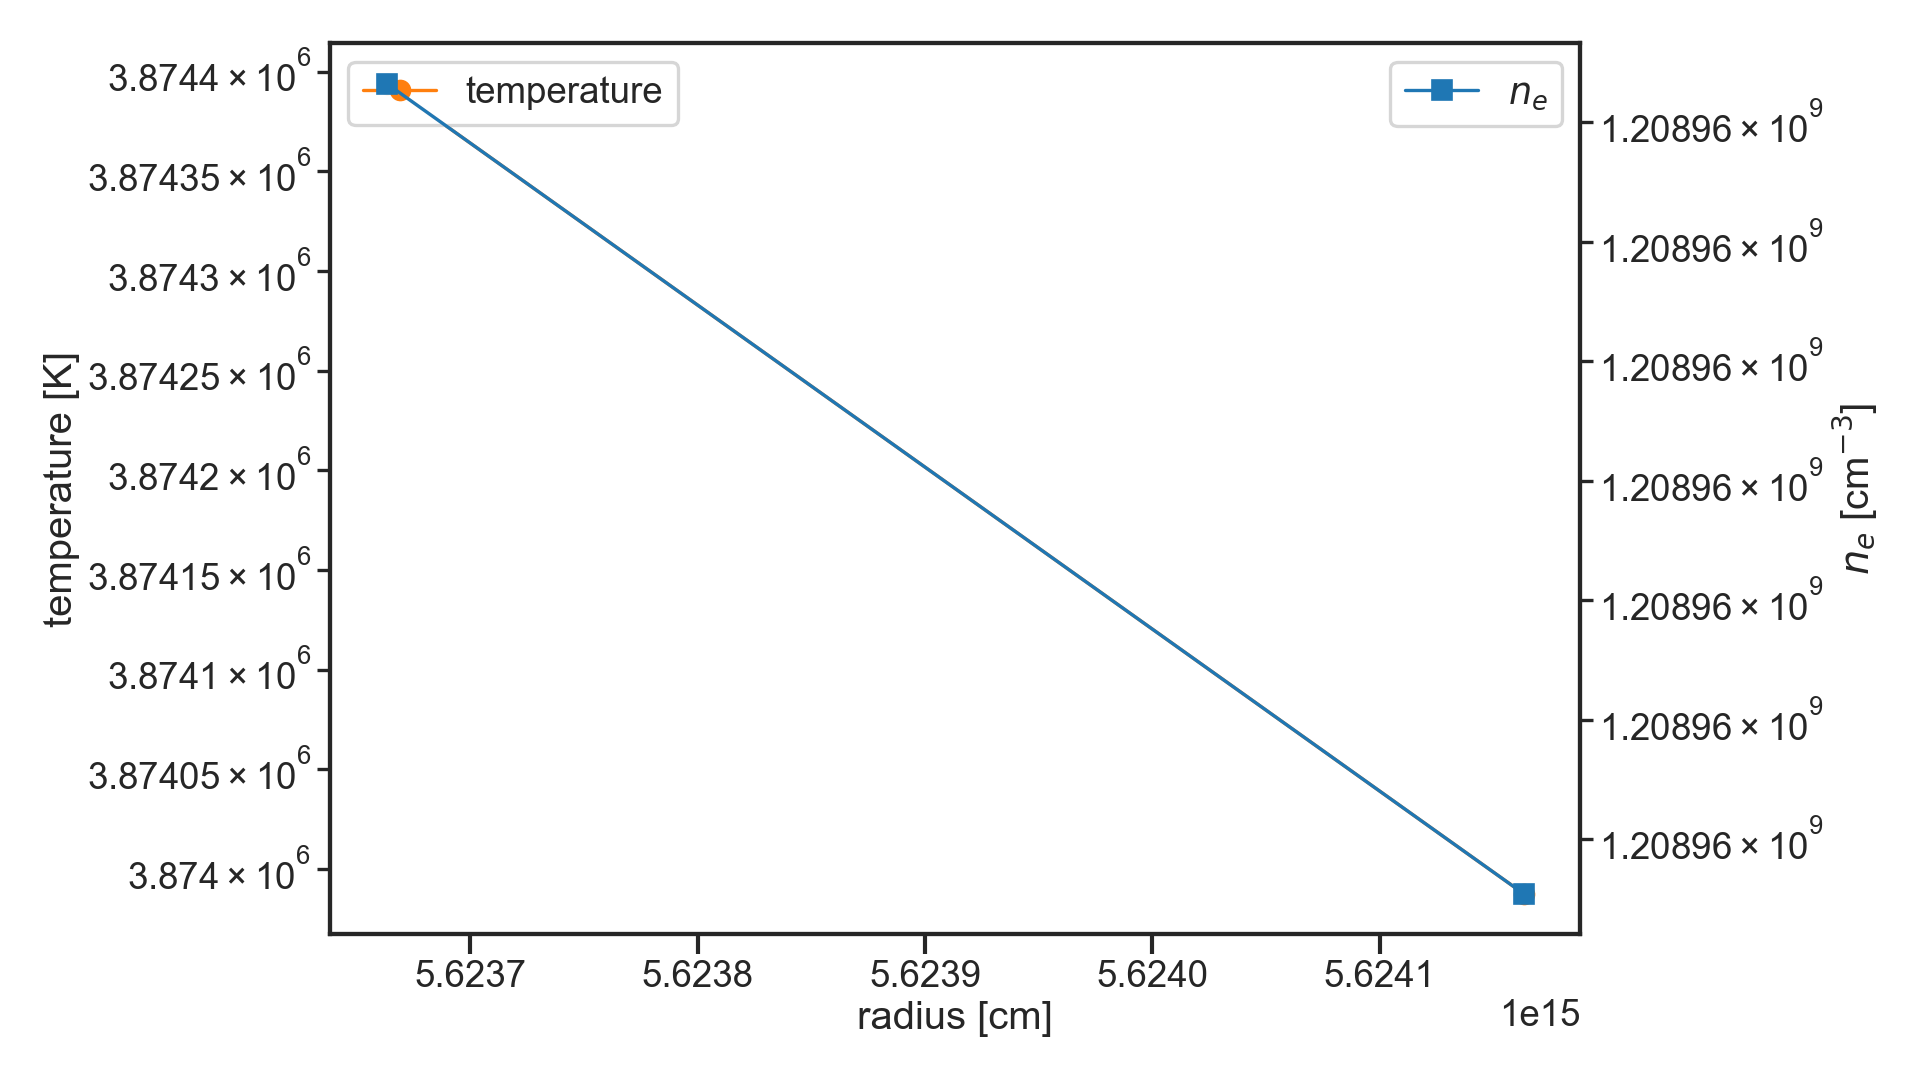
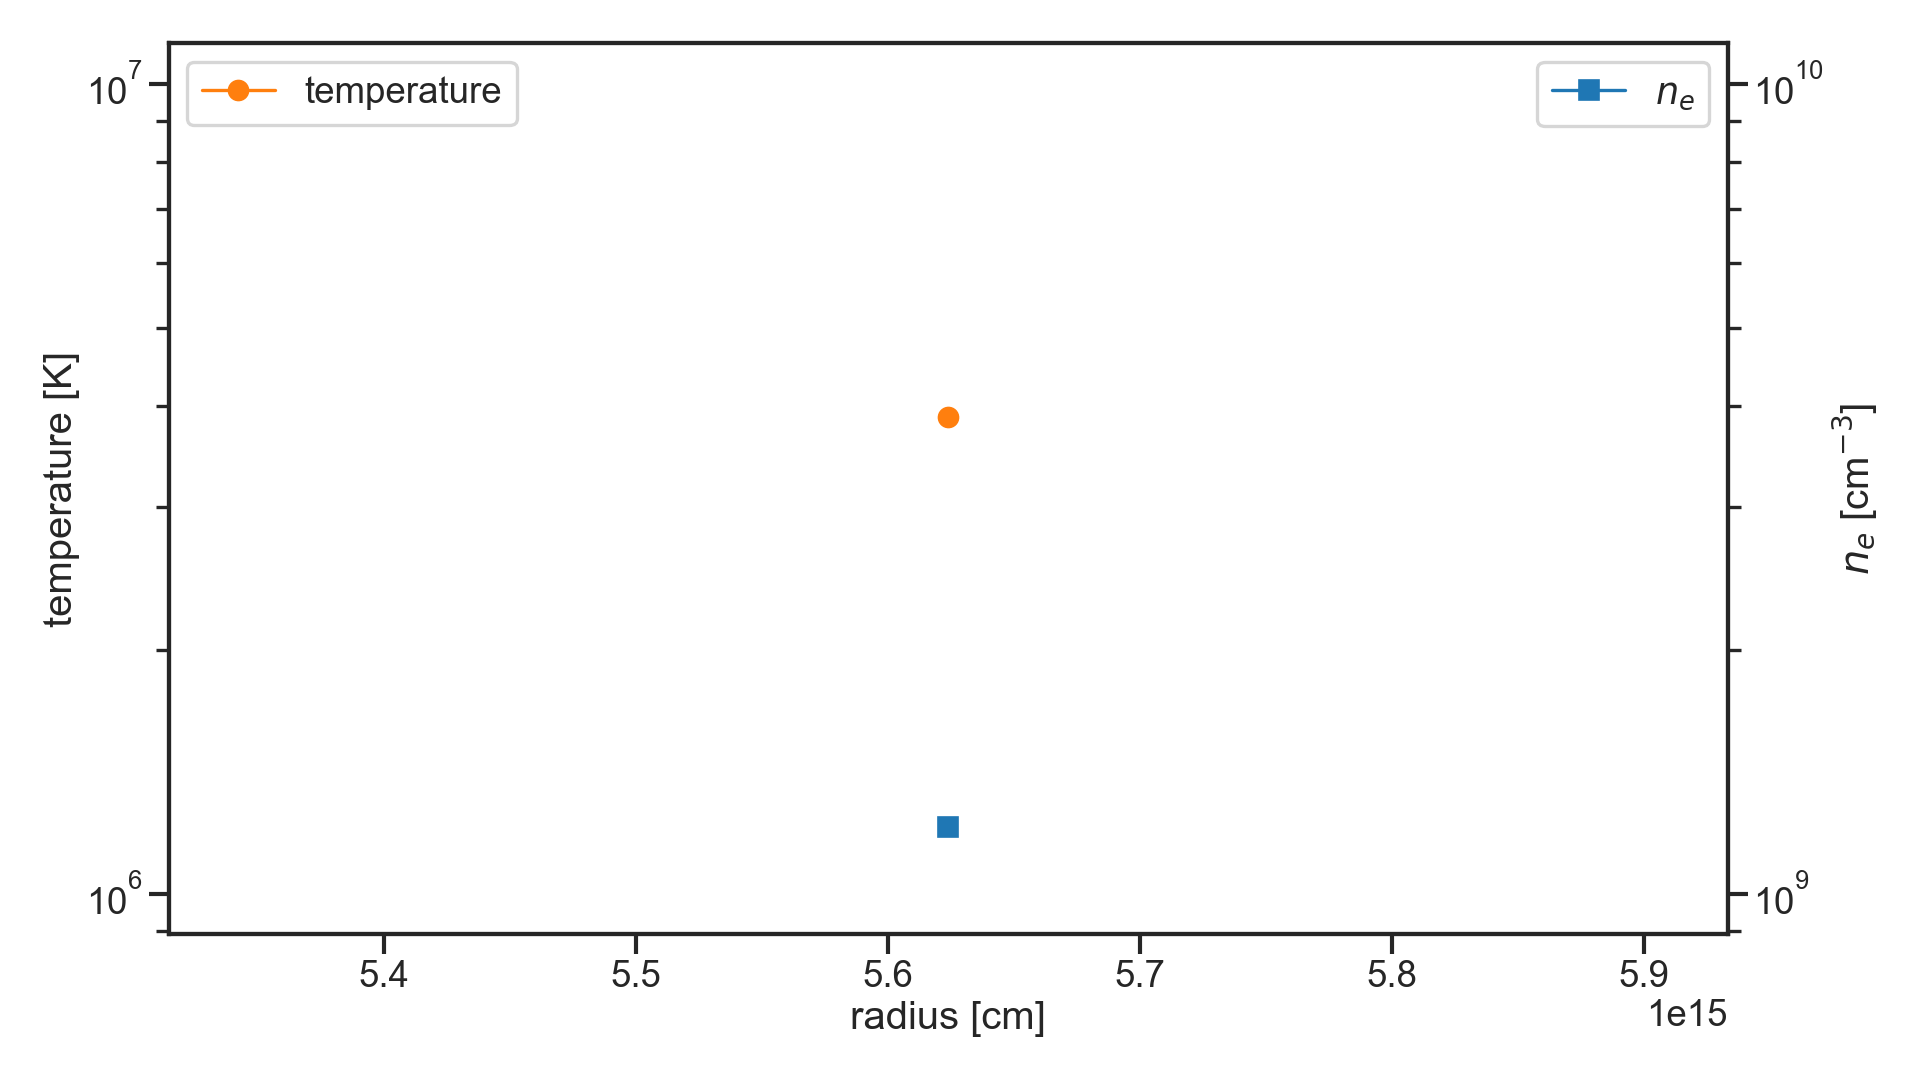
Output collisional-excitation line emission per cell (photons per photoionization)
- line_cooling.py: solve level populations at a given T and list line photon rates
- equilibrium.py: save_line_emission_tsv() writes volume emissivity and photons
  per photoionization for every ion and line (MONACO .ln-like normalization)
- run_benchmark.py writes data/<output>_line_emission.tsv

diff --git a/source/equilibrium.py b/source/equilibrium.py
@@ -429,6 +429,43 @@ class PhotoionizationModel:
         numpy.savetxt(filepath, numpy.column_stack(columns), delimiter="\t", header="\t".join(header), comments="")
         return filepath
 
+    def save_line_emission_tsv(self, filename="line_emission.tsv", minimum_fraction=1e-8, minimum_photons_per_ionization=1e-6):
+        """
+        衝突励起による輝線の放射率をセルごと・イオンごと・線ごとに TSV ファイルとして保存する。
+        列: cell, ion (<元素><電子数 2 桁>), chianti (CHIANTI のイオン名), upper, lower (CHIANTI の準位番号、1 始まり),
+            energy_eV, photons_per_s_per_cm3 (体積放射率), photons_per_photoionization
+        photons_per_photoionization = 放射率 / (Γ n_ion) は、MONACO が光電離イベントごとに輝線を抽選するときの
+        規格化（再結合 1 回あたりの光子数、.ln の衝突励起成分に相当）。平衡では再結合率 ≈ 光電離率 + 衝突電離率なので、
+        衝突電離が効く高温では「再結合 1 回あたり」より大きめになる。
+        占有率は各セルの T, n_e, n_HI で解き直す。割合 < minimum_fraction のイオンと、
+        光電離 1 回あたり < minimum_photons_per_ionization の線は書かない。
+        """
+        os.makedirs(DATA_DIR, exist_ok=True)
+        filepath = os.path.join(DATA_DIR, filename)
+        with open(filepath, "w") as f:
+            f.write("cell\tion\tchianti\tupper\tlower\tenergy_eV\tphotons_per_s_per_cm3\tphotons_per_photoionization\n")
+            for i in range(self.N_r):
+                x = self._ion_fraction_vector(i)
+                n_ion = self.ion_element_density * x
+                n_e = self.electron_density_array[i]
+                T = self.temperature_array[i]
+                n_HI = n_ion[self.ion_symbols.index("H01")] if "H01" in self.ion_symbols else 0.0
+                for k, (ion, model) in enumerate(zip(self.ions, self.line_cooling.ions)):
+                    if model is None or x[k] < minimum_fraction or n_ion[k] <= 0.0:
+                        continue
+                    ionization_rate = self.gamma_array[i, k] * n_ion[k]   # [s^-1 cm^-3]
+                    if ionization_rate <= 0.0:
+                        continue
+                    upper, lower, energy_eV, photons = model.line_emission(n_e, n_HI, T)
+                    emissivity = photons * n_ion[k]
+                    per_ionization = emissivity / ionization_rate
+                    order = numpy.argsort(energy_eV)
+                    for m in order:
+                        if per_ionization[m] < minimum_photons_per_ionization:
+                            continue
+                        f.write(f"{i}\t{ion.symbol}\t{ion.chianti_name}\t{upper[m]}\t{lower[m]}\t{energy_eV[m]:.6e}\t{emissivity[m]:.6e}\t{per_ionization[m]:.6e}\n")
+        return filepath
+
     def save_heating_cooling_tsv(self, filename="heating_cooling.tsv"):
         """加熱・冷却の内訳 [erg s^-1 cm^-3] を TSV ファイルとして保存する"""
         os.makedirs(DATA_DIR, exist_ok=True)

diff --git a/source/line_cooling.py b/source/line_cooling.py
@@ -12,7 +12,7 @@ import numpy
 import os
 import scipy.interpolate
 
-from constants import h, c, k_B, CHIANTI_DIR
+from constants import h, c, k_B, eV, CHIANTI_DIR
 
 
 N_LEVELS_MAX = 20       # 各イオンで考慮する準位数の上限（低い方から）。60 準位との差は T ≤ 2×10⁴ K の C II-C IV で 0.1% 以下
@@ -145,6 +145,12 @@ class LineCoolingIon:
                 continue
             upper, lower = (i, j) if self.energy[i] > self.energy[j] else (j, i)
             self.A[upper, lower] += A
+        # 輝線の一覧 (上準位, 下準位, A [s^-1], エネルギー [erg]) — 放射率の出力に使う
+        upper_index, lower_index = numpy.nonzero(self.A)
+        self.line_upper = upper_index
+        self.line_lower = lower_index
+        self.line_A = self.A[upper_index, lower_index]
+        self.line_energy = self.energy[upper_index] - self.energy[lower_index]
         delta_E = numpy.maximum(self.energy[:, None] - self.energy[None, :], 0.0)
         # 各準位から自発放射で放出されるエネルギー Σ_j A_ij ΔE_ij [erg s^-1]
         self.radiated_power = numpy.sum(self.A * delta_E, axis=1)
@@ -171,6 +177,32 @@ class LineCoolingIon:
         boltzmann = numpy.exp(-(self.energy[upper] - self.energy[lower]) / (k_B * T_GRID))
         C_matrix[:, upper, lower] += q_down
         C_matrix[:, lower, upper] += q_down * self.g[upper] / self.g[lower] * boltzmann
+
+    def populations_at(self, n_e, n_HI, T_gas):
+        """温度 T_gas [K] での準位占有率（Σ = 1）。衝突係数は温度グリッドから log T で線形内挿する。"""
+        log_T = numpy.clip(numpy.log10(T_gas), LOG_T_GRID[0], LOG_T_GRID[-1])
+        k = min(max(int(numpy.searchsorted(LOG_T_GRID, log_T)), 1), len(LOG_T_GRID) - 1)
+        w = (log_T - LOG_T_GRID[k - 1]) / (LOG_T_GRID[k] - LOG_T_GRID[k - 1])
+        C_e = (1.0 - w) * self.C_e[k - 1] + w * self.C_e[k]
+        C_H = (1.0 - w) * self.C_H[k - 1] + w * self.C_H[k]
+        R = self.A + n_e * C_e + n_HI * C_H
+        R[1:, 0] += 1e-30
+        L = R.T.copy()
+        diagonal = numpy.arange(self.N_levels)
+        L[diagonal, diagonal] -= numpy.sum(R, axis=1)
+        L[0, :] = 1.0
+        b = numpy.zeros(self.N_levels)
+        b[0] = 1.0
+        return numpy.maximum(numpy.linalg.solve(L, b), 0.0)
+
+    def line_emission(self, n_e, n_HI, T_gas):
+        """
+        温度 T_gas での各輝線の光子放射率 [photons s^-1]（イオン 1 個あたり）
+        戻り値: (上準位 (1 始まり), 下準位 (1 始まり), エネルギー [eV], 光子放射率) の配列の組
+        """
+        populations = self.populations_at(n_e, n_HI, T_gas)
+        photons = populations[self.line_upper] * self.line_A
+        return self.line_upper + 1, self.line_lower + 1, self.line_energy / eV, photons
 
     def cooling_per_ion(self, n_e, n_HI):
         """

diff --git a/benchmark/run_benchmark.py b/benchmark/run_benchmark.py
@@ -55,6 +55,7 @@ if __name__ == "__main__":
     print("Saving results to TSV...", flush=True)
     print(model.save_tsv(f"{args.output}.tsv"))
     print(model.save_heating_cooling_tsv(f"{args.output}_heating_cooling.tsv"))
+    print(model.save_line_emission_tsv(f"{args.output}_line_emission.tsv"))
     print("Plotting results...", flush=True)
     xstar = None
     if args.xstar_dir:
